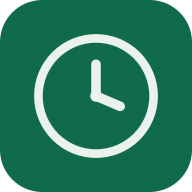
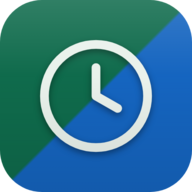
Rediseno de icono con sombra y colores de Marin/Argomedo; renombra cuentas
Icono nuevo: fondo partido en diagonal verde (Marin, el color de
siempre de la app) y azul (Argomedo), con sombra en el reloj y un
degrade sutil para dar profundidad en vez de verse plano.

Las pestanas de cuenta pasan de "Cuenta principal"/"Cuenta 2" a
"Marin"/"Argomedo" (nombre por defecto en el Worker, se puede
sobreescribir con el secret JIBBLE_CUENTA_NOMBRE si cambia).

Claude-Session: https://claude.ai/code/session_0174SQVaUG3t6ADCMUWfQzVc

diff --git a/worker.js b/worker.js
@@ -35,6 +35,10 @@ function json(data, status = 200) {
   });
 }
 
+// Nombres por defecto de cada local (se pueden sobreescribir con el secret
+// JIBBLE_CUENTA_NOMBRE / JIBBLE_CUENTA_NOMBRE_2 si algun dia cambian).
+const NOMBRES_POR_DEFECTO = { "1": "Marín", "2": "Argomedo" };
+
 // Credenciales y config de una cuenta Jibble a partir de los secrets/vars
 // del Worker, usando el sufijo correspondiente (_2, _3, _4; "1" sin sufijo).
 function getCuentaConfig(env, cuenta) {
@@ -44,7 +48,7 @@ function getCuentaConfig(env, cuenta) {
     clientId: env[`JIBBLE_CLIENT_ID${suffix}`],
     clientSecret: env[`JIBBLE_CLIENT_SECRET${suffix}`],
     employeeNames: env[`JIBBLE_EMPLOYEE_NAMES${suffix}`] || "",
-    nombre: env[`JIBBLE_CUENTA_NOMBRE${suffix}`] || (suffix ? `Cuenta ${cuenta}` : "Cuenta principal"),
+    nombre: env[`JIBBLE_CUENTA_NOMBRE${suffix}`] || NOMBRES_POR_DEFECTO[cuenta || "1"] || `Cuenta ${cuenta}`,
   };
 }
 

diff --git a/index.html b/index.html
@@ -1007,7 +1007,7 @@
       .catch(function(){});
   }
 
-  var cuentasDisponibles = [{ id: "1", nombre: "Cuenta principal" }];
+  var cuentasDisponibles = [{ id: "1", nombre: "Marín" }];
 
   function renderCuentaTabs(){
     if(cuentasDisponibles.length < 2){

diff --git a/app.html b/app.html
@@ -994,7 +994,7 @@
       .catch(function(){});
   }
 
-  var cuentasDisponibles = [{ id: "1", nombre: "Cuenta principal" }];
+  var cuentasDisponibles = [{ id: "1", nombre: "Marín" }];
 
   function renderCuentaTabs(){
     if(cuentasDisponibles.length < 2){
